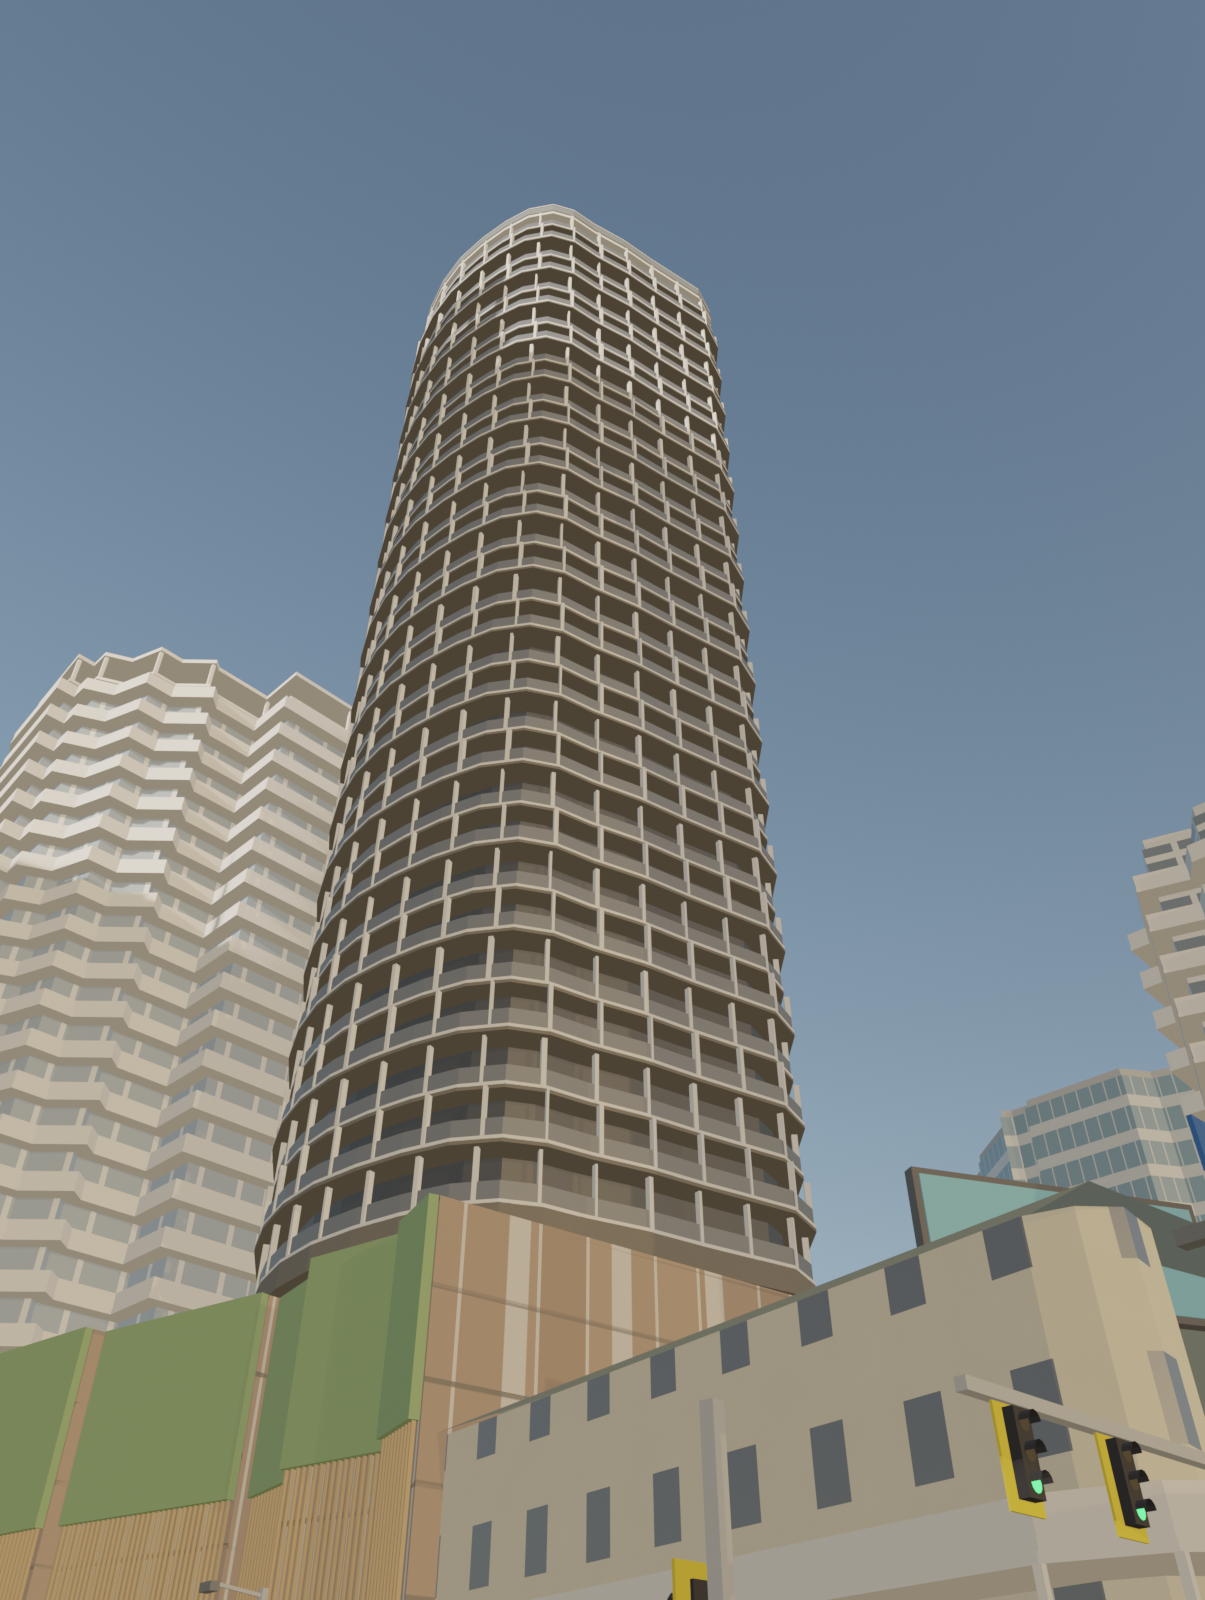
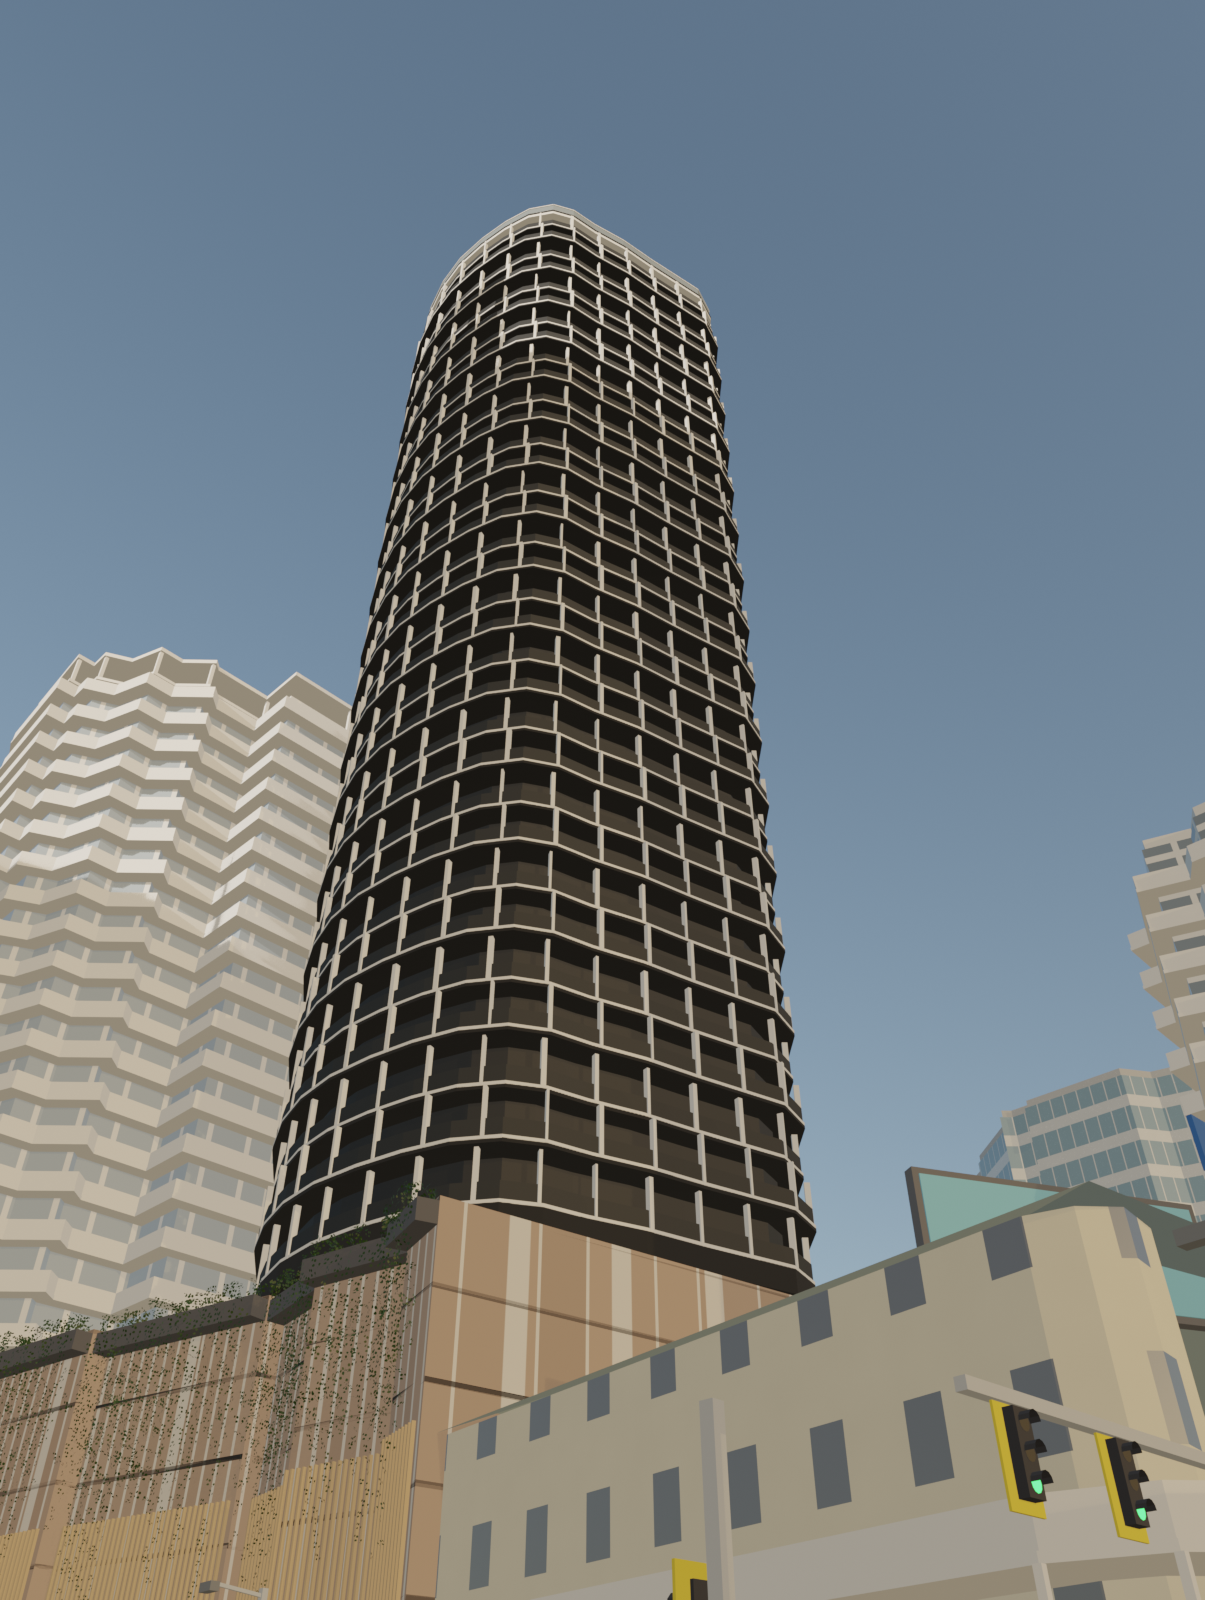
Spire step 7h: no greenery or bins on carriageways (build check), council wheelie bin, BUS ONLY letters follow grade and crown inside the lane, photo exports keep original colours

Changed region(s): [[0.0, 0.125, 0.6755, 0.9688]]

diff --git a/tools/blender/spire/streetscape.py b/tools/blender/spire/streetscape.py
@@ -39,6 +39,39 @@ def flat_quad(buf, pts, z_lift=0.06):
     buf.add([(x, y, z(x, y)) for x, y in pts], [[0, 1, 2, 3]])
 
 
+def carriageways():
+    """(centre polyline, half width) of every car road, for the 'nothing on the road' check."""
+    o = L.osm()
+    out = []
+    for w in o["ways"].values():
+        t = w.get("tags", {})
+        if t.get("highway") in CAR and t.get("bridge", "no") == "no" and t.get("tunnel", "no") == "no":
+            pts = o["line"](w)
+            if len(pts) >= 2:
+                out.append((pts, road_width(t) / 2))
+    return out
+
+
+def on_road(x, y, roads, pad=0.3):
+    for pts, hw in roads:
+        for (ax, ay), (bx, by) in zip(pts[:-1], pts[1:]):
+            dx, dy = bx - ax, by - ay
+            l2 = dx * dx + dy * dy or 1.0
+            k = max(0.0, min(1.0, ((x - ax) * dx + (y - ay) * dy) / l2))
+            if math.hypot(ax + dx * k - x, ay + dy * k - y) < hw + pad:
+                return True
+    return False
+
+
+def point_in(x, y, ring):
+    inside = False
+    for i in range(len(ring)):
+        (x1, y1), (x2, y2) = ring[i], ring[(i + 1) % len(ring)]
+        if (y1 > y) != (y2 > y) and x < (x2 - x1) * (y - y1) / (y2 - y1) + x1:
+            inside = not inside
+    return inside
+
+
 def lantern(lant, board, lit_r, lit_g, x, y, z, ang, green):
     """Brisbane 3-aspect lantern: black housing on a yellow target board, one aspect lit."""
     board.box(x, y, z - 0.15, 0.75, 0.04, 1.35, ang)
@@ -70,9 +103,11 @@ def build():
     col = C.collection("streetscape")
     o = L.osm()
     lant, board, lit_r, lit_g, blade, yellow = (C.MeshBuf() for _ in range(6))
+    roads = carriageways()
+    offenders = []
     global unlit
     unlit = C.MeshBuf()
-    bins, bollards, cars = C.MeshBuf(), C.MeshBuf(), C.MeshBuf()
+    bins, bollards, cars, wheels = C.MeshBuf(), C.MeshBuf(), C.MeshBuf(), C.MeshBuf()
     import foliage as FO
     shrubs, tufts = FO.Foliage(seed=11), FO.Foliage(seed=12)
     nblade = 0
@@ -253,10 +288,15 @@ def build():
             if math.hypot(ax, ay) > 300:
                 continue
             a2 = math.atan2(by - ay, bx - ax)
-            cx = ax - math.sin(a2) * (wd / 2 - 1.8)
-            cy = ay + math.cos(a2) * (wd / 2 - 1.8)
-            ob_t = C.text_obj(col, "busonly", "BUS ONLY", (cx, cy, L.ground_z(cx, cy) + 0.046 + 0.025 * 1.8 + 0.06), (0, 0, a2 - math.pi / 2), 0.55, (0.9, 0.9, 0.86))
-            ob_t.scale = (1.0, 3.0, 1.0)                                    # stretched along the lane
+            cx = ax - math.sin(a2) * (wd / 2 - 2.0)
+            cy = ay + math.cos(a2) * (wd / 2 - 2.0)
+            ux, uy = math.cos(a2), math.sin(a2)
+            z_back, z_fwd = L.ground_z(cx - ux * 3, cy - uy * 3), L.ground_z(cx + ux * 3, cy + uy * 3)
+            pitch = math.atan2(z_fwd - z_back, 6.0)                         # follow the road's grade
+            roll = math.atan(0.025)                                         # follow the crown (rises to the inner edge)
+            z_red = L.ground_z(cx, cy) + 0.046 + 0.025 * 2.0 + 0.05         # red surface at the text centre
+            ob_t = C.text_obj(col, "busonly", "BUS ONLY", (cx, cy, z_red + 0.025), (pitch, roll, a2 - math.pi / 2), 0.42, (0.9, 0.9, 0.86))
+            ob_t.scale = (1.0, 2.6, 1.0)                                    # ~2.5 m across, ~2.7 m along: inside the 3.3 m lane
     for ar in c["lane_markings"]["turn_arrows"]:
         x, y = ar["xy"]
         h = math.radians(90 - ar["heading"])
@@ -271,13 +311,19 @@ def build():
     # ---------------------------------------------------------------- greenery: islands, planters
     for isl in c["greenery"]["islands"]:
         ring = [tuple(p) for p in isl["poly"]]
+        cx_ = sum(p[0] for p in ring) / len(ring)
+        cy_ = sum(p[1] for p in ring) / len(ring)
+        if on_road(cx_, cy_, roads, pad=-0.5):
+            offenders.append("island at (%.0f, %.0f) sits on a carriageway: dropped" % (cx_, cy_))
+            continue
         z = min(L.ground_z(*p) for p in ring)
         hedge.prism(ring, z, z + 0.15)                                    # kerbed island, mulch top
-        cx_ = sum(p[0] for p in ring) / 4
-        cy_ = sum(p[1] for p in ring) / 4
         for i in range(16):                                               # shrubs + lomandra tufts (leaf cards)
             a, rr = i * 2.4, 0.15 + 0.6 * ((i * 37) % 10) / 10
-            sx_, sy_ = cx_ + math.cos(a) * rr * 7, cy_ + math.sin(a) * rr * 9
+            sx_, sy_ = cx_ + math.cos(a) * rr * 4, cy_ + math.sin(a) * rr * 5
+            if not point_in(sx_, sy_, ring) or on_road(sx_, sy_, roads, pad=0.6):
+                offenders.append("shrub at (%.1f, %.1f) outside island / on road: skipped" % (sx_, sy_))
+                continue
             if i % 3 == 0:
                 tufts.tufts((sx_, sy_, z + 0.15), 0.6, 30, 0.7)
             else:
@@ -292,7 +338,13 @@ def build():
         g = L.ground_z(x, y) + L.KERB_HEIGHT
         ang = math.radians(it.get("heading", 0))
         if it["kind"] == "bin":
-            bins.box(x, y, g, 0.6, 0.6, 1.0, ang)
+            if on_road(x, y, roads, pad=0.4):
+                offenders.append("bin at (%.0f, %.0f) on a carriageway: skipped" % (x, y))
+                continue
+            bins.box(x, y, g + 0.08, 0.58, 0.72, 0.95, ang)                 # body
+            bins.box(x, y + 0.02, g + 1.03, 0.62, 0.78, 0.06, ang)          # lid
+            for s in (-1, 1):                                               # wheels
+                wheels.box(x + math.cos(ang) * s * 0.25, y + math.sin(ang) * s * 0.25, g, 0.06, 0.2, 0.2, ang)
         elif it["kind"] == "bollards":
             for k in range(it.get("n", 4)):
                 bollards.box(x + math.cos(ang) * 1.4 * k, y + math.sin(ang) * 1.4 * k, g, 0.18, 0.18, 0.95)
@@ -321,7 +373,7 @@ def build():
             "red": (0.55, 0.16, 0.12), "white": (0.93, 0.93, 0.90), "hedge": (0.42, 0.36, 0.28), "plant": (0.22, 0.42, 0.18)}
     for name, buf, rgb, emit in (("lanterns", lant, (0.03, 0.03, 0.035), 0), ("target_boards", board, (0.85, 0.65, 0.05), 0),
                                  ("lit_red", lit_r, (1.0, 0.045, 0.028), 4.0), ("lit_green", lit_g, (0.045, 1.0, 0.14), 4.0),
-                                 ("lenses_unlit", unlit, (0.06, 0.05, 0.03), 0), ("bins", bins, (0.12, 0.30, 0.16), 0),
+                                 ("lenses_unlit", unlit, (0.06, 0.05, 0.03), 0), ("bins", bins, (0.035, 0.12, 0.05), 0), ("bin_wheels", wheels, (0.02, 0.02, 0.02), 0),
                                  ("bollards", bollards, (0.55, 0.56, 0.57), 0), ("parked_cars", cars, (0.55, 0.57, 0.60), 0),
                                  ("name_blades", blade, (0.04, 0.16, 0.50), 0), ("no_stopping_yellow", yellow, (0.92, 0.75, 0.10), 0)):
         ob = buf.object("street_" + name, col, "roof")
@@ -338,5 +390,9 @@ def build():
         if ob:
             ob.data.materials[0] = C.material_rgb("street_" + name, mats[name])
             objs.append(ob.name)
-    return {"module": "streetscape", "objects": objs, "counts": counts,
+    if offenders:
+        print("streetscape: %d items kept off the road:" % len(offenders))
+        for o_ in offenders:
+            print("  -", o_)
+    return {"module": "streetscape", "objects": objs, "counts": counts, "kept_off_road": offenders,
             "note": "From street_catalogue.json (photos) + OSM nodes; billboard art is placeholder colour, not real ads."}

diff --git a/tools/blender/spire/showcase.py b/tools/blender/spire/showcase.py
@@ -51,6 +51,22 @@ def save_jpg(a, path, q):
     bpy.data.images.remove(im)
 
 
+def save_plain(a, path, q=82):
+    """Photo writer without a view transform: colours stay exactly as in the source photo."""
+    h, w = a.shape[:2]
+    im = bpy.data.images.new("o", w, h)
+    rgba = np.ones((h, w, 4), "f4")
+    rgba[:, :, :3] = a
+    im.pixels.foreach_set(rgba.ravel())
+    im.filepath_raw = path
+    im.file_format = "JPEG"
+    try:
+        im.save(quality=q)
+    except TypeError:
+        im.save()
+    bpy.data.images.remove(im)
+
+
 def resize(a, long_side=None, width=None):
     H, W = a.shape[:2]
     k = (long_side / max(W, H)) if long_side else (width / W)
@@ -92,7 +108,7 @@ def main():
         m = marks[c["id"]]
         li = lic[m["commons"]]
         a = load(os.path.join(commons, m["src_dir"], m["file"]))
-        save_jpg(resize(a, long_side=1600), os.path.join(REAL, "%s_photo.jpg" % c["id"]), 82)
+        save_plain(resize(a, long_side=1600), os.path.join(REAL, "%s_photo.jpg" % c["id"]), 82)
         credits.append({"id": c["id"], "title": m["commons"], "author": li["author"], "licence": li["licence"],
                         "licence_url": li["licence_url"], "commons_page": li["page"], "date": m.get("date") or li.get("date"),
                         "fit_rms_px": c["fit_rms_px"], "caption": m["caption"]})
